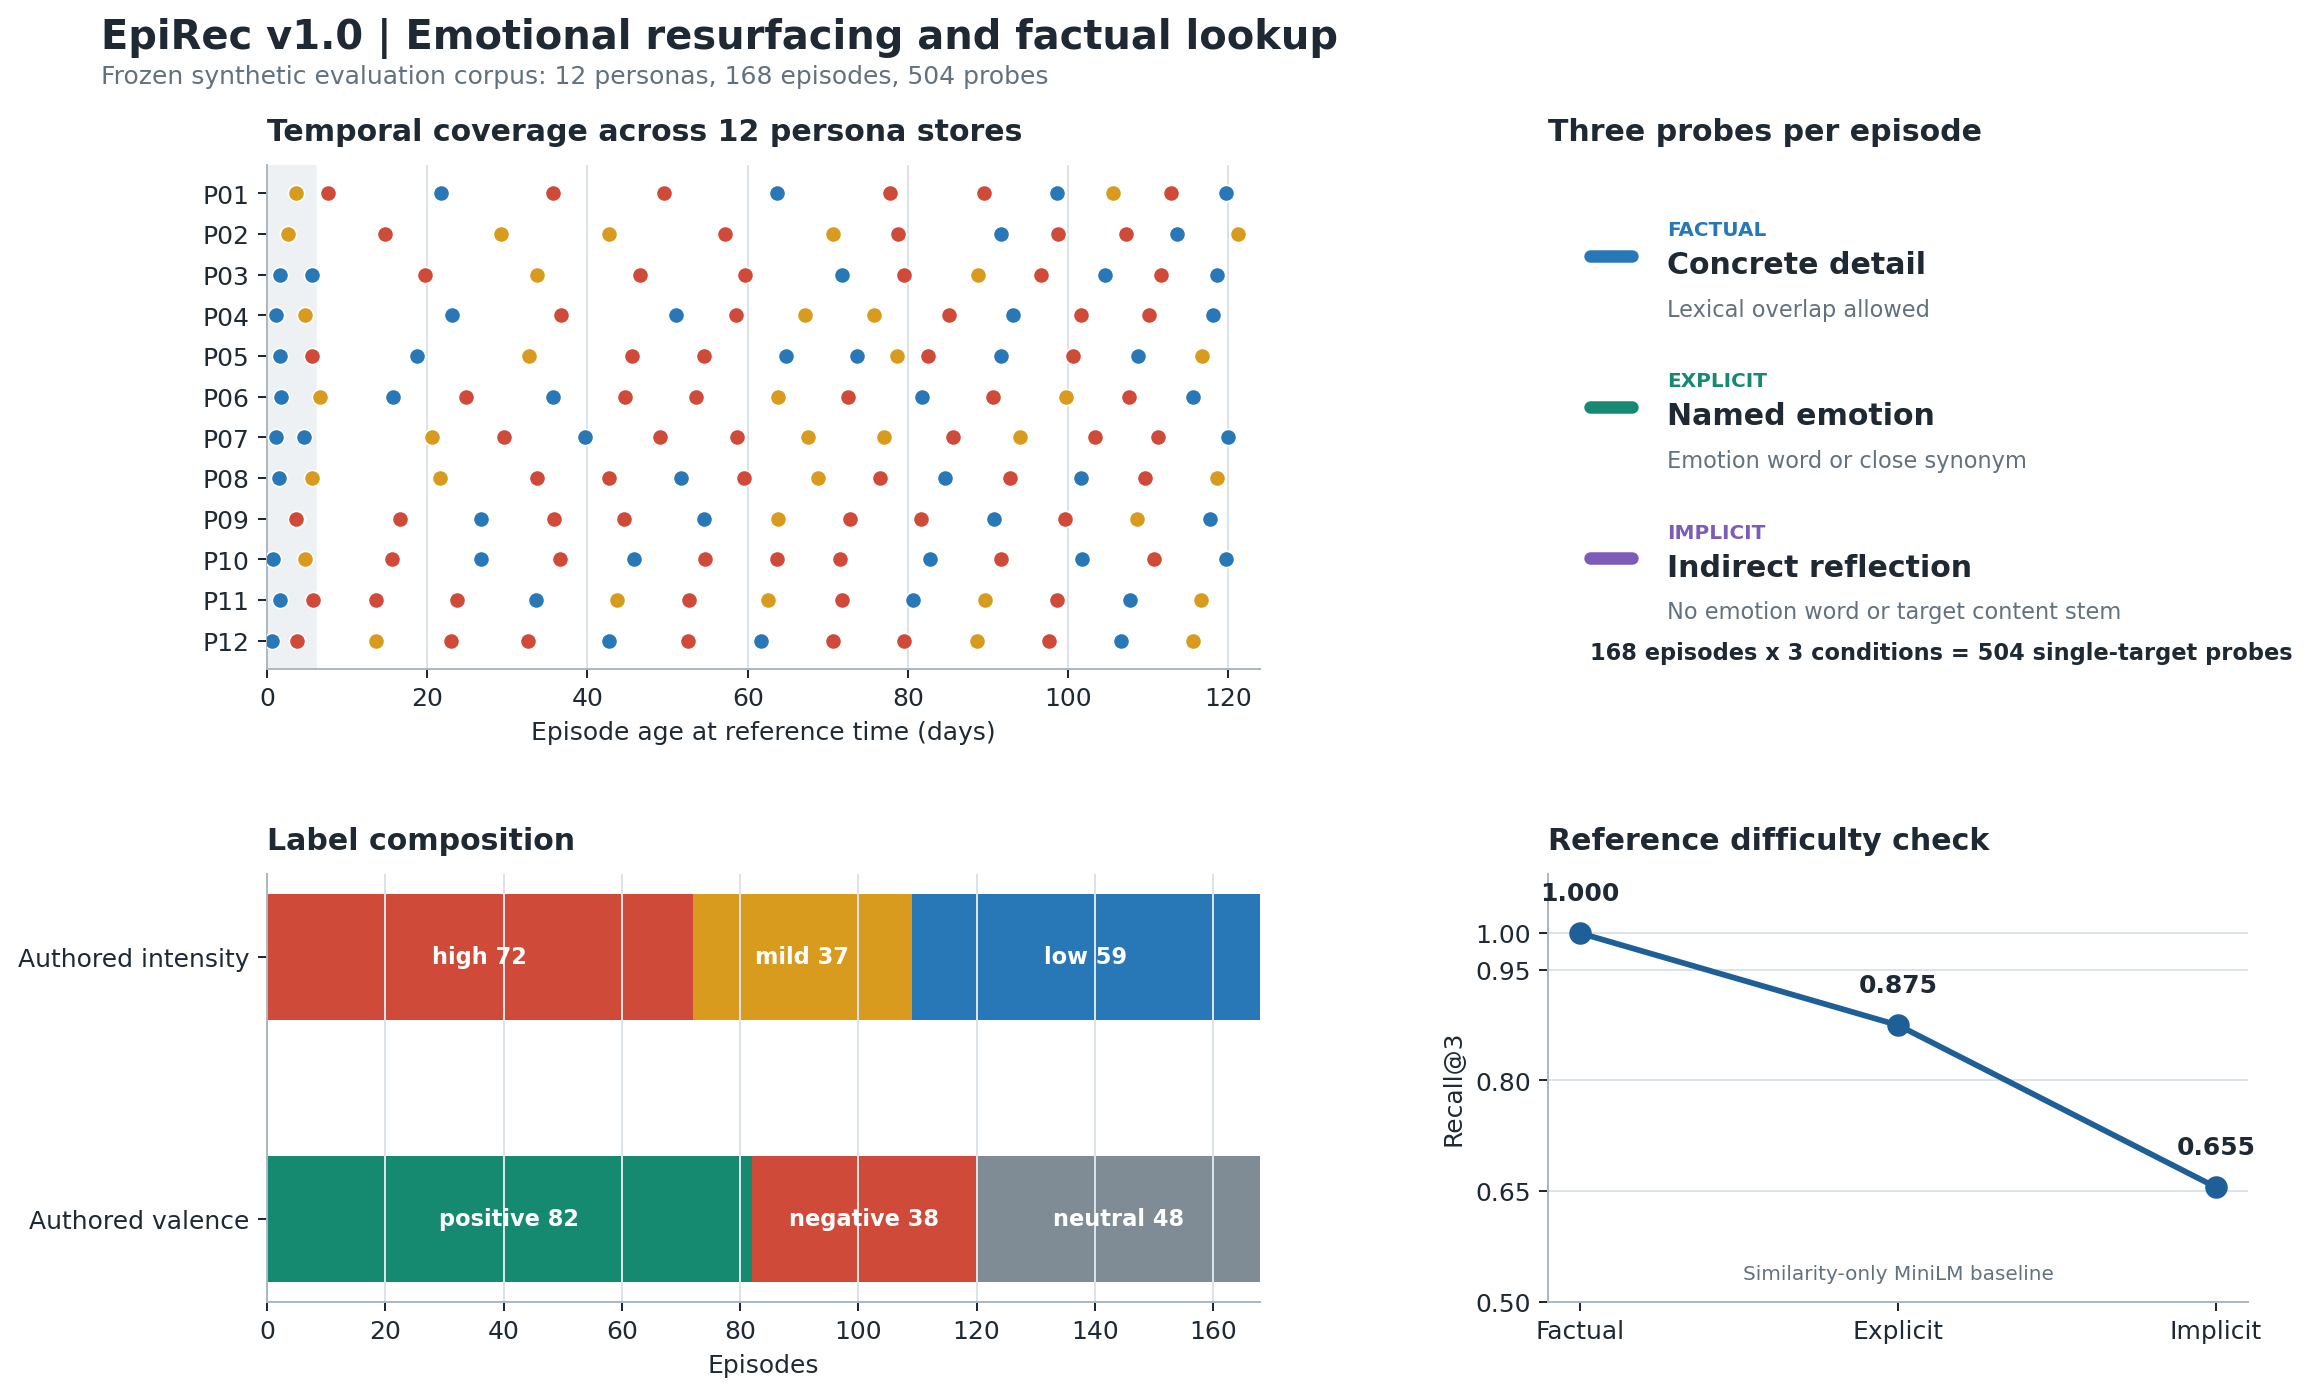
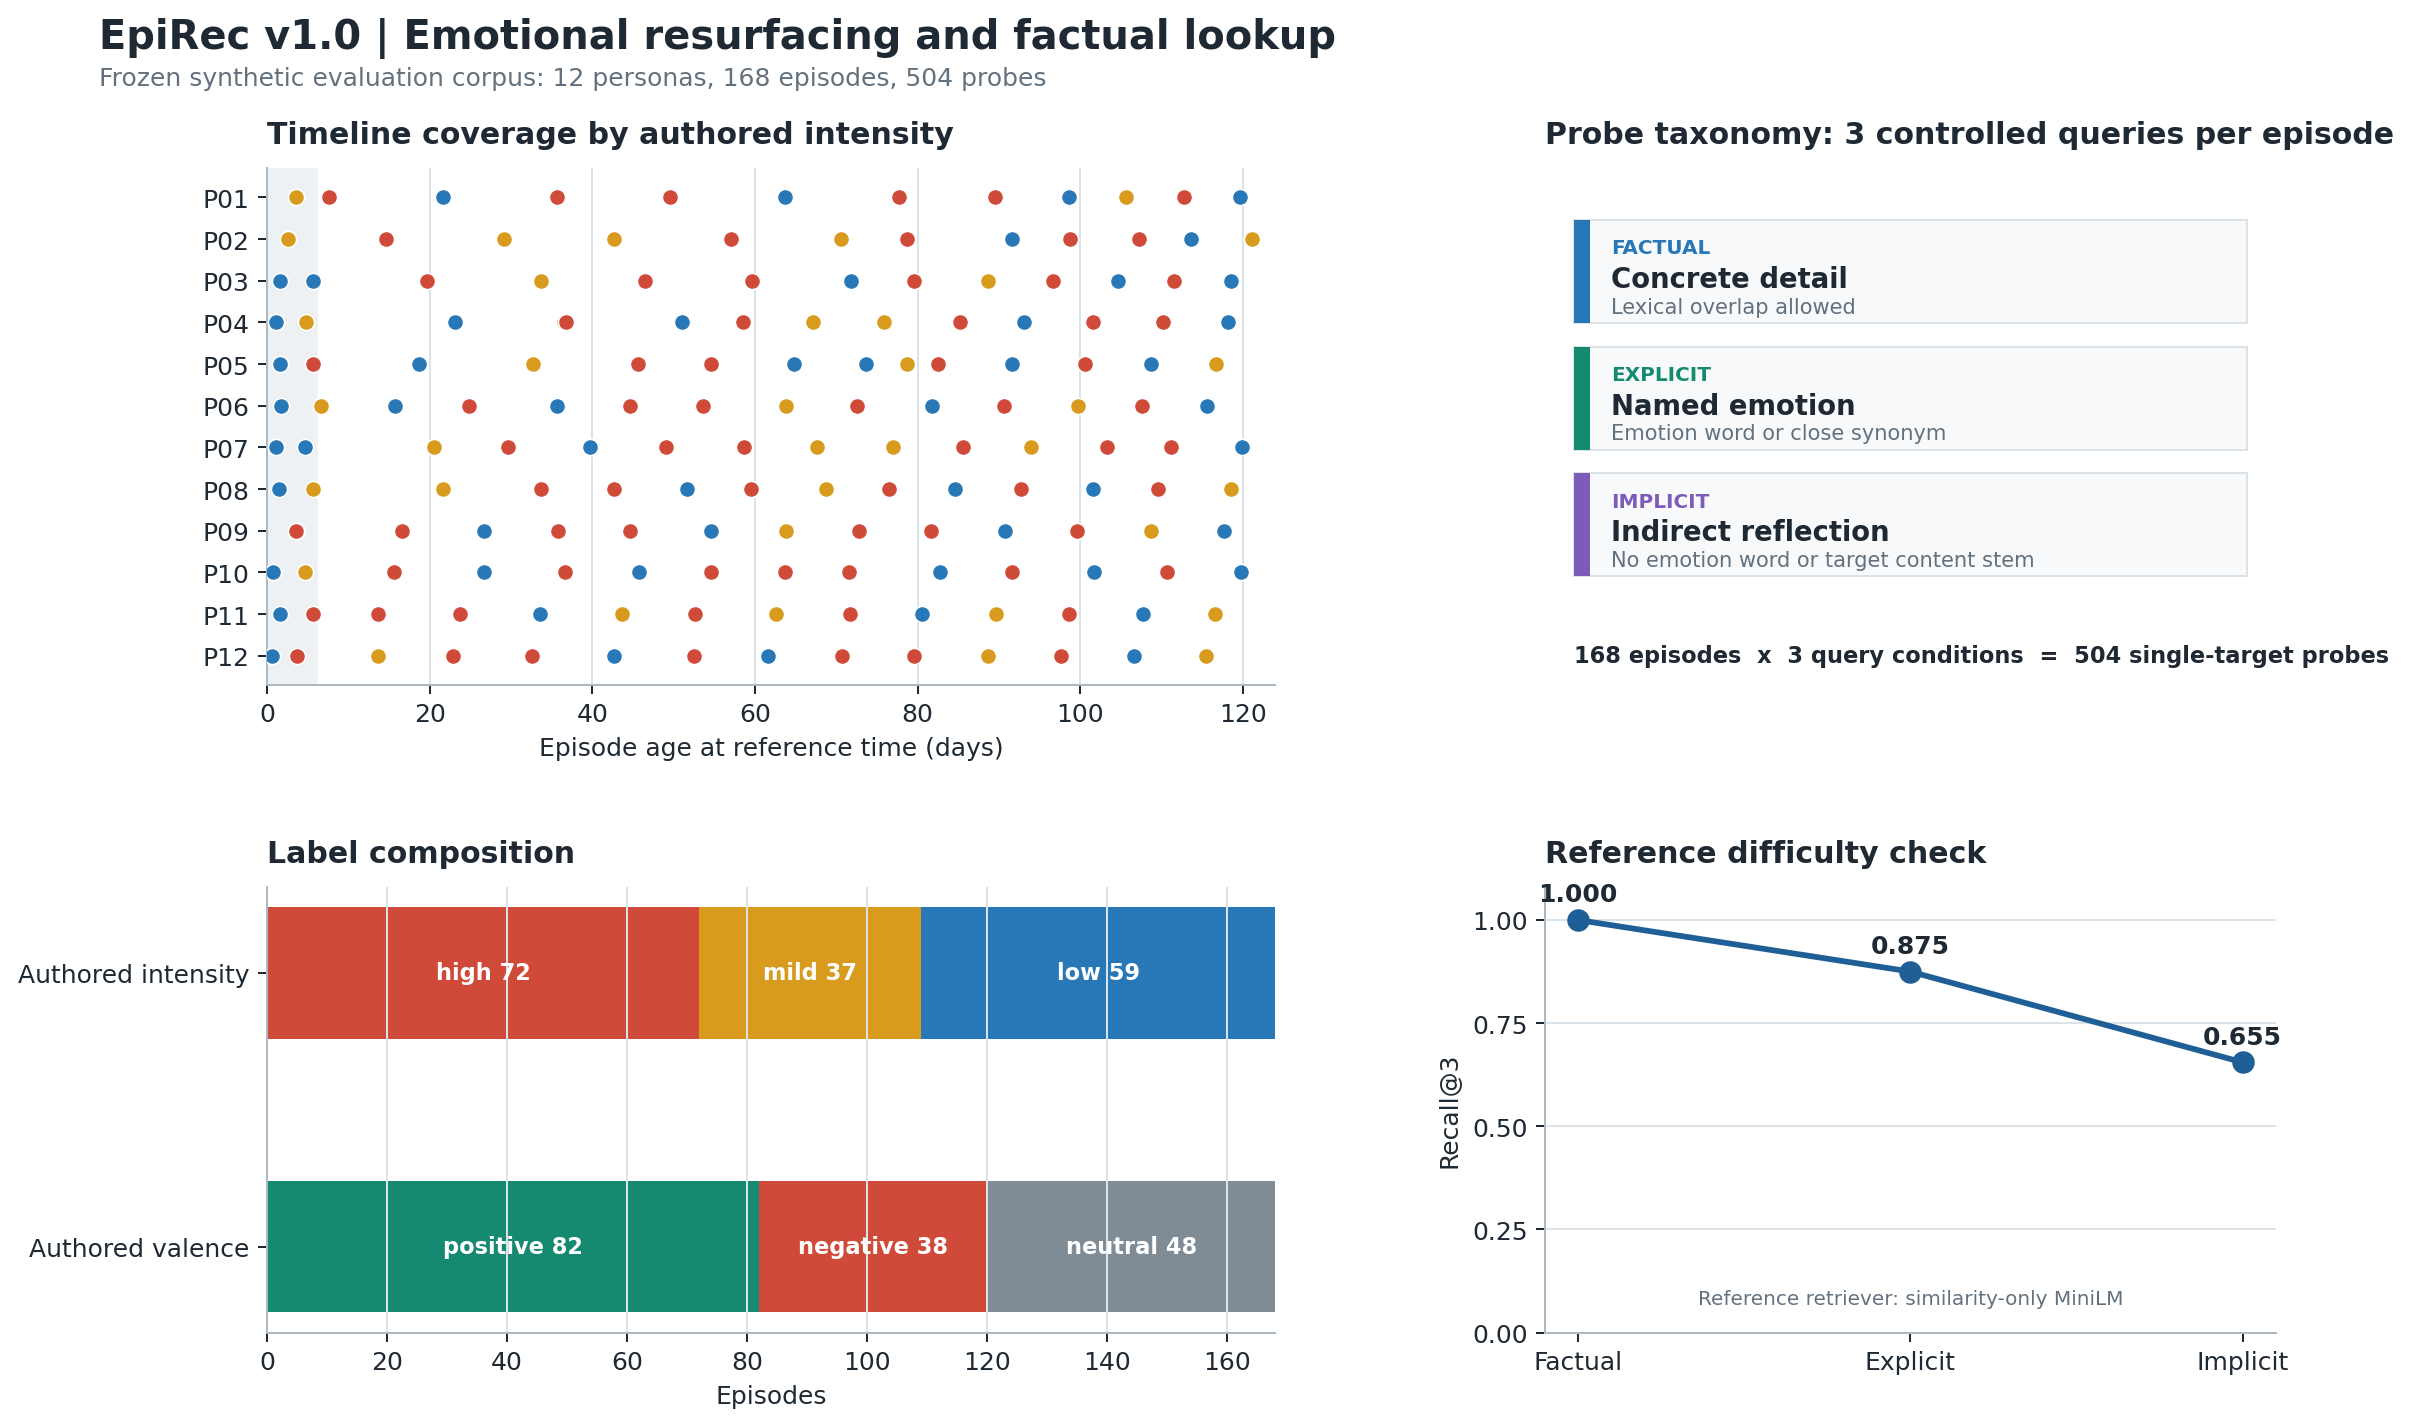
docs: refine EpiRec overview figure

diff --git a/scripts/plot_overview.py b/scripts/plot_overview.py
@@ -11,6 +11,7 @@ import matplotlib
 matplotlib.use("Agg")
 import matplotlib.pyplot as plt
 import numpy as np
+from matplotlib.patches import Rectangle
 
 ROOT = Path(__file__).resolve().parents[1]
 DATA = ROOT / "data" / "epirec_v1.json"
@@ -33,8 +34,8 @@ def main() -> None:
     episodes = [episode for persona in personas for episode in persona["episodes"]]
 
     plt.rcParams.update({"font.family": "DejaVu Sans", "font.size": 10})
-    fig = plt.figure(figsize=(14.2, 8.2), facecolor="white")
-    grid = fig.add_gridspec(2, 2, width_ratios=[1.42, 1], height_ratios=[1.18, 1], wspace=0.34, hspace=0.44)
+    fig = plt.figure(figsize=(14.4, 8.4), facecolor="white")
+    grid = fig.add_gridspec(2, 2, width_ratios=[1.38, 1], height_ratios=[1.16, 1], wspace=0.31, hspace=0.42)
     ax_time = fig.add_subplot(grid[0, 0])
     ax_probe = fig.add_subplot(grid[0, 1])
     ax_mix = fig.add_subplot(grid[1, 0])
@@ -57,24 +58,27 @@ def main() -> None:
     ax_time.invert_yaxis()
     ax_time.set_yticks(range(len(personas)), [persona["persona_id"].upper() for persona in personas])
     ax_time.set_xlabel("Episode age at reference time (days)", color=INK)
-    ax_time.set_title("Temporal coverage across 12 persona stores", loc="left", color=INK, fontweight="bold", pad=10)
+    ax_time.set_title("Timeline coverage by authored intensity", loc="left", color=INK, fontweight="bold", pad=10)
     ax_time.grid(axis="x", color=GRID, linewidth=.8)
 
     # Probe taxonomy: communicates the controlled difficulty ladder without inventing a score.
     ax_probe.set_axis_off()
-    ax_probe.set_title("Three probes per episode", loc="left", color=INK, fontweight="bold", pad=10)
+    ax_probe.set_title("Probe taxonomy: 3 controlled queries per episode", loc="left", color=INK, fontweight="bold", pad=10)
     rows = [
         ("FACTUAL", "Concrete detail", "Lexical overlap allowed"),
         ("EXPLICIT", "Named emotion", "Emotion word or close synonym"),
         ("IMPLICIT", "Indirect reflection", "No emotion word or target content stem"),
     ]
     for index, (tag, title, rule) in enumerate(rows):
-        y = .82 - index * .3
-        ax_probe.plot([.06, .12], [y, y], color=PROBE_COLORS[index], lw=5, solid_capstyle="round", transform=ax_probe.transAxes)
-        ax_probe.text(.17, y + .04, tag, transform=ax_probe.transAxes, color=PROBE_COLORS[index], fontsize=8, fontweight="bold")
-        ax_probe.text(.17, y - .035, title, transform=ax_probe.transAxes, color=INK, fontsize=12, fontweight="bold")
-        ax_probe.text(.17, y - .12, rule, transform=ax_probe.transAxes, color=MUTED, fontsize=9)
-    ax_probe.text(.06, .02, "168 episodes x 3 conditions = 504 single-target probes", transform=ax_probe.transAxes, color=INK, fontsize=9, fontweight="bold")
+        y = .70 - index * .245
+        ax_probe.add_patch(Rectangle((.04, y), .92, .20, transform=ax_probe.transAxes,
+                                     facecolor="#f7f9fa", edgecolor=GRID, linewidth=.8))
+        ax_probe.add_patch(Rectangle((.04, y), .022, .20, transform=ax_probe.transAxes,
+                                     facecolor=PROBE_COLORS[index], edgecolor="none"))
+        ax_probe.text(.09, y + .135, tag, transform=ax_probe.transAxes, color=PROBE_COLORS[index], fontsize=8, fontweight="bold")
+        ax_probe.text(.09, y + .070, title, transform=ax_probe.transAxes, color=INK, fontsize=11, fontweight="bold")
+        ax_probe.text(.09, y + .020, rule, transform=ax_probe.transAxes, color=MUTED, fontsize=8.4)
+    ax_probe.text(.04, .045, "168 episodes  x  3 query conditions  =  504 single-target probes", transform=ax_probe.transAxes, color=INK, fontsize=9, fontweight="bold")
 
     # Composition: show intensity and valence as directly labeled stacked bars.
     intensity_order = ["high", "mild", "low"]
@@ -106,11 +110,11 @@ def main() -> None:
     for index, value in enumerate(values):
         ax_baseline.text(index, value + .045, f"{value:.3f}", ha="center", color=INK, fontweight="bold")
     ax_baseline.set_xticks(x, labels)
-    ax_baseline.set_ylim(.5, 1.08)
-    ax_baseline.set_yticks([.5, .65, .8, .95, 1.0])
+    ax_baseline.set_ylim(0, 1.08)
+    ax_baseline.set_yticks([0, .25, .5, .75, 1.0])
     ax_baseline.set_ylabel("Recall@3", color=INK)
     ax_baseline.set_title("Reference difficulty check", loc="left", color=INK, fontweight="bold", pad=10)
-    ax_baseline.text(1, .53, "Similarity-only MiniLM baseline", ha="center", color=MUTED, fontsize=8)
+    ax_baseline.text(1, .07, "Reference retriever: similarity-only MiniLM", ha="center", color=MUTED, fontsize=8)
     ax_baseline.grid(axis="y", color=GRID, linewidth=.8)
 
     for axis in (ax_time, ax_mix, ax_baseline):